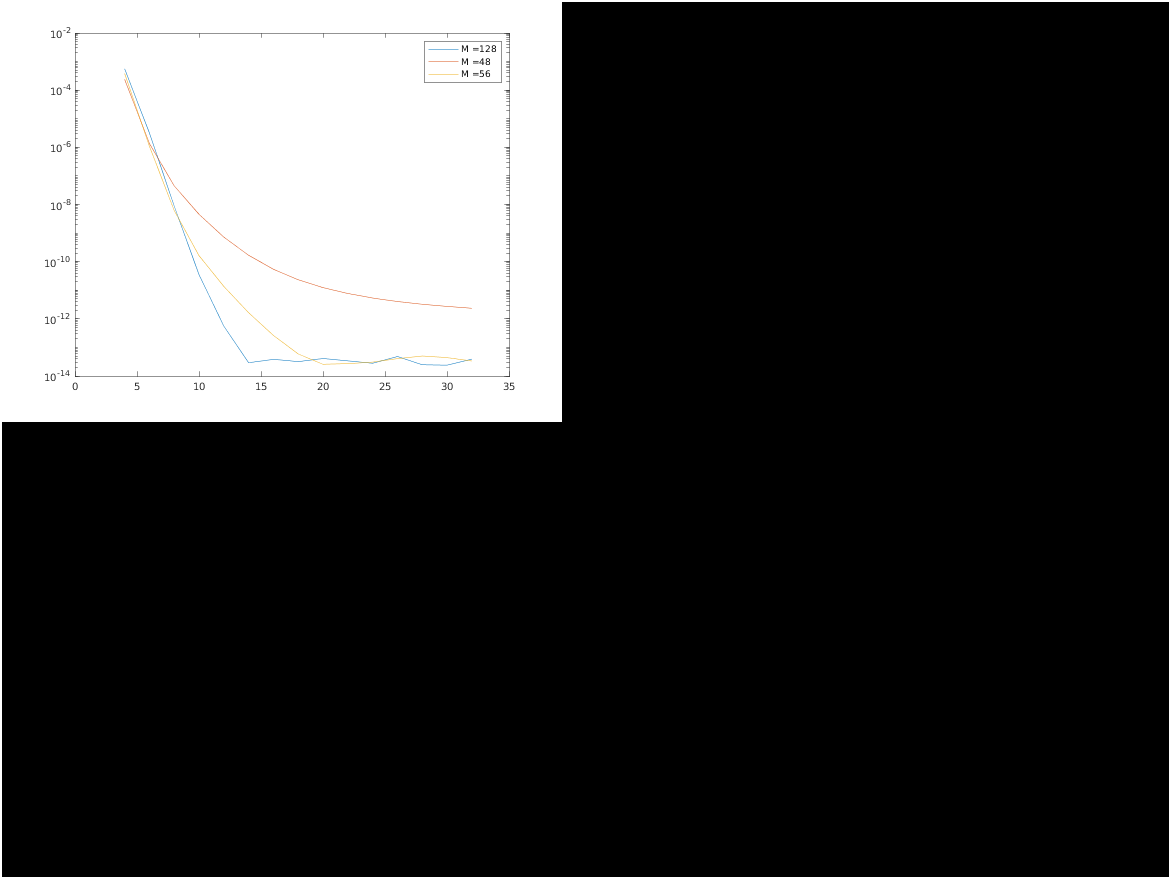
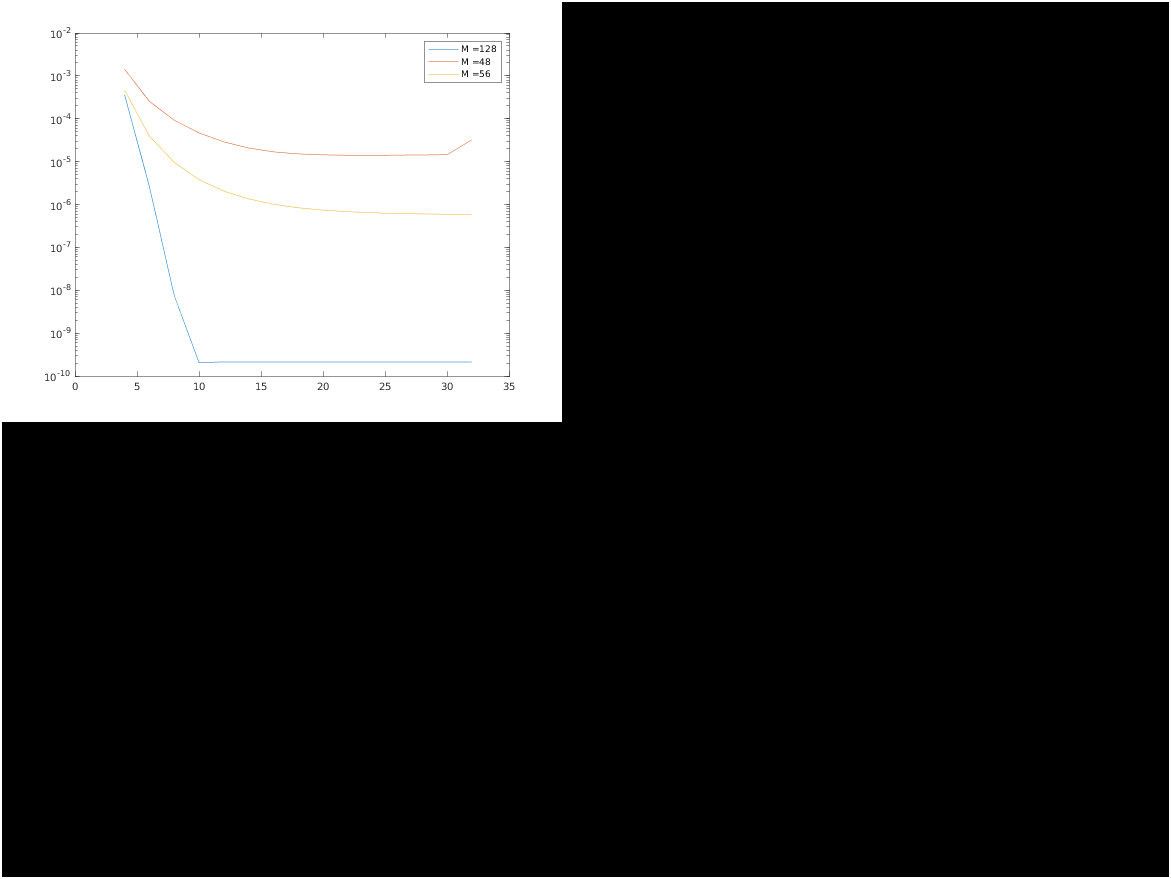
imgs

diff --git a/SE_Stokes_run/SE3P_Stokes/rms_a.m b/SE_Stokes_run/SE3P_Stokes/rms_a.m
@@ -5,7 +5,7 @@ N = 10; % number of source particles
 
 
 %% Parameter selection
-L = 1; % box side length
+L = 2; % box side length
 box = [L L L]; % periodic box
 opt.box = box;
 
@@ -14,7 +14,7 @@ opt.box = box;
 
 M0 = 144; % Set M0=M/L, the restu * 1+ is automatic
 opt.M = M0*[1,1,1];
-opt.xi = 15;
+opt.xi = 25;
 opt.betaP = 2.5;
 opt.window = 'kaiser_exact';
 % charge-neutral system
